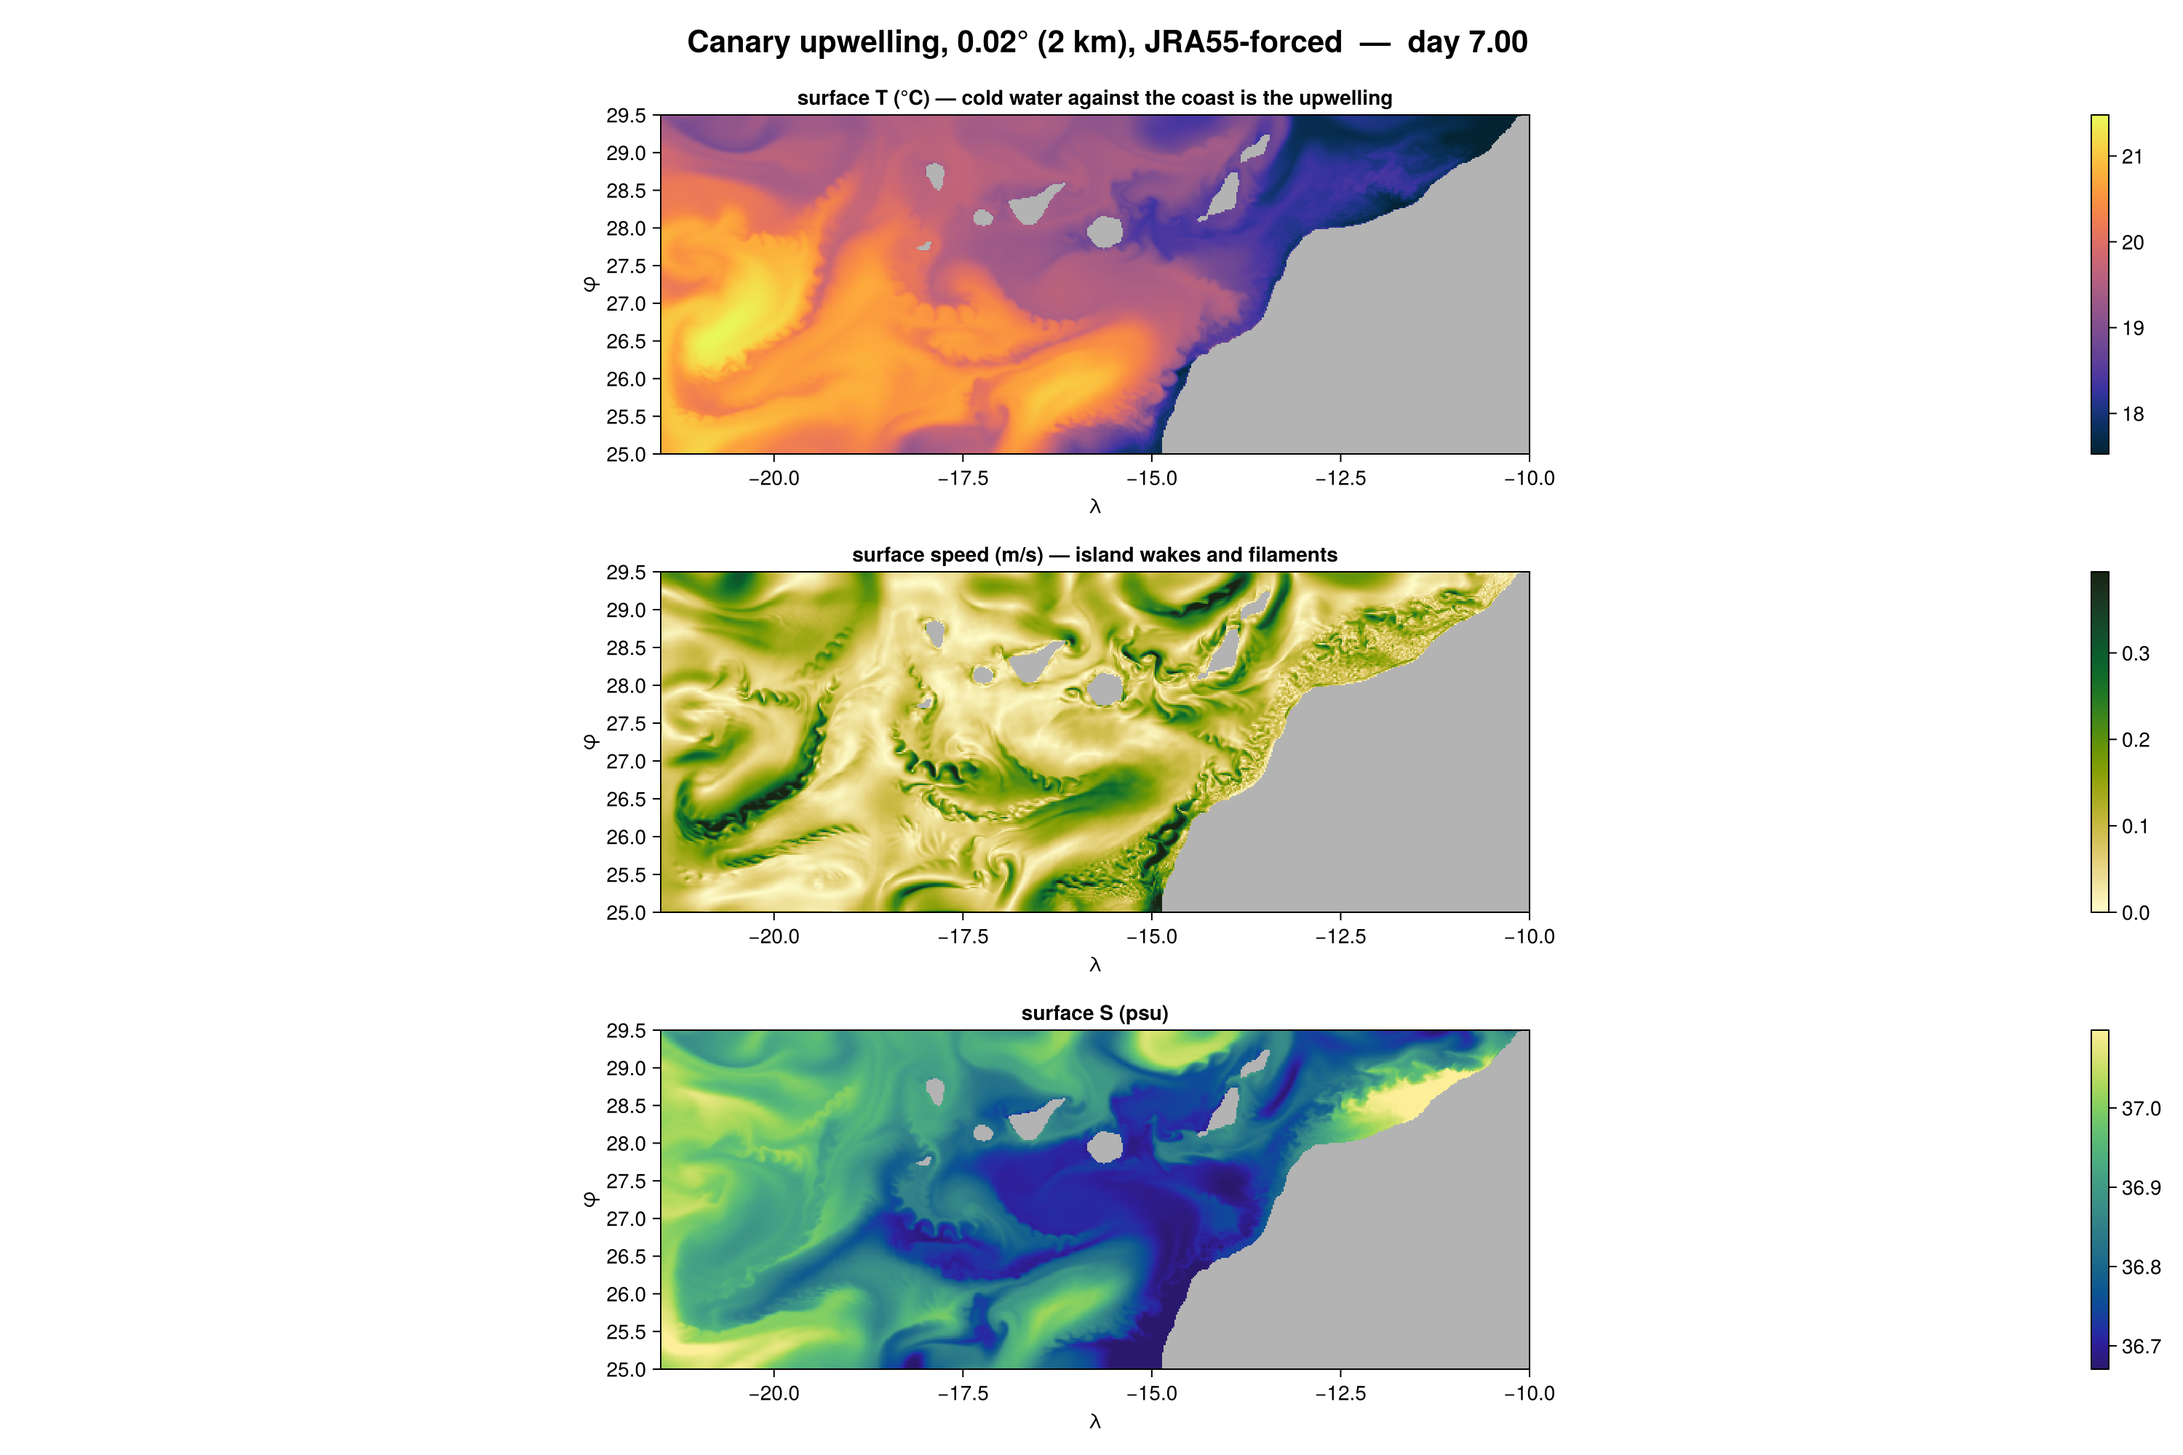
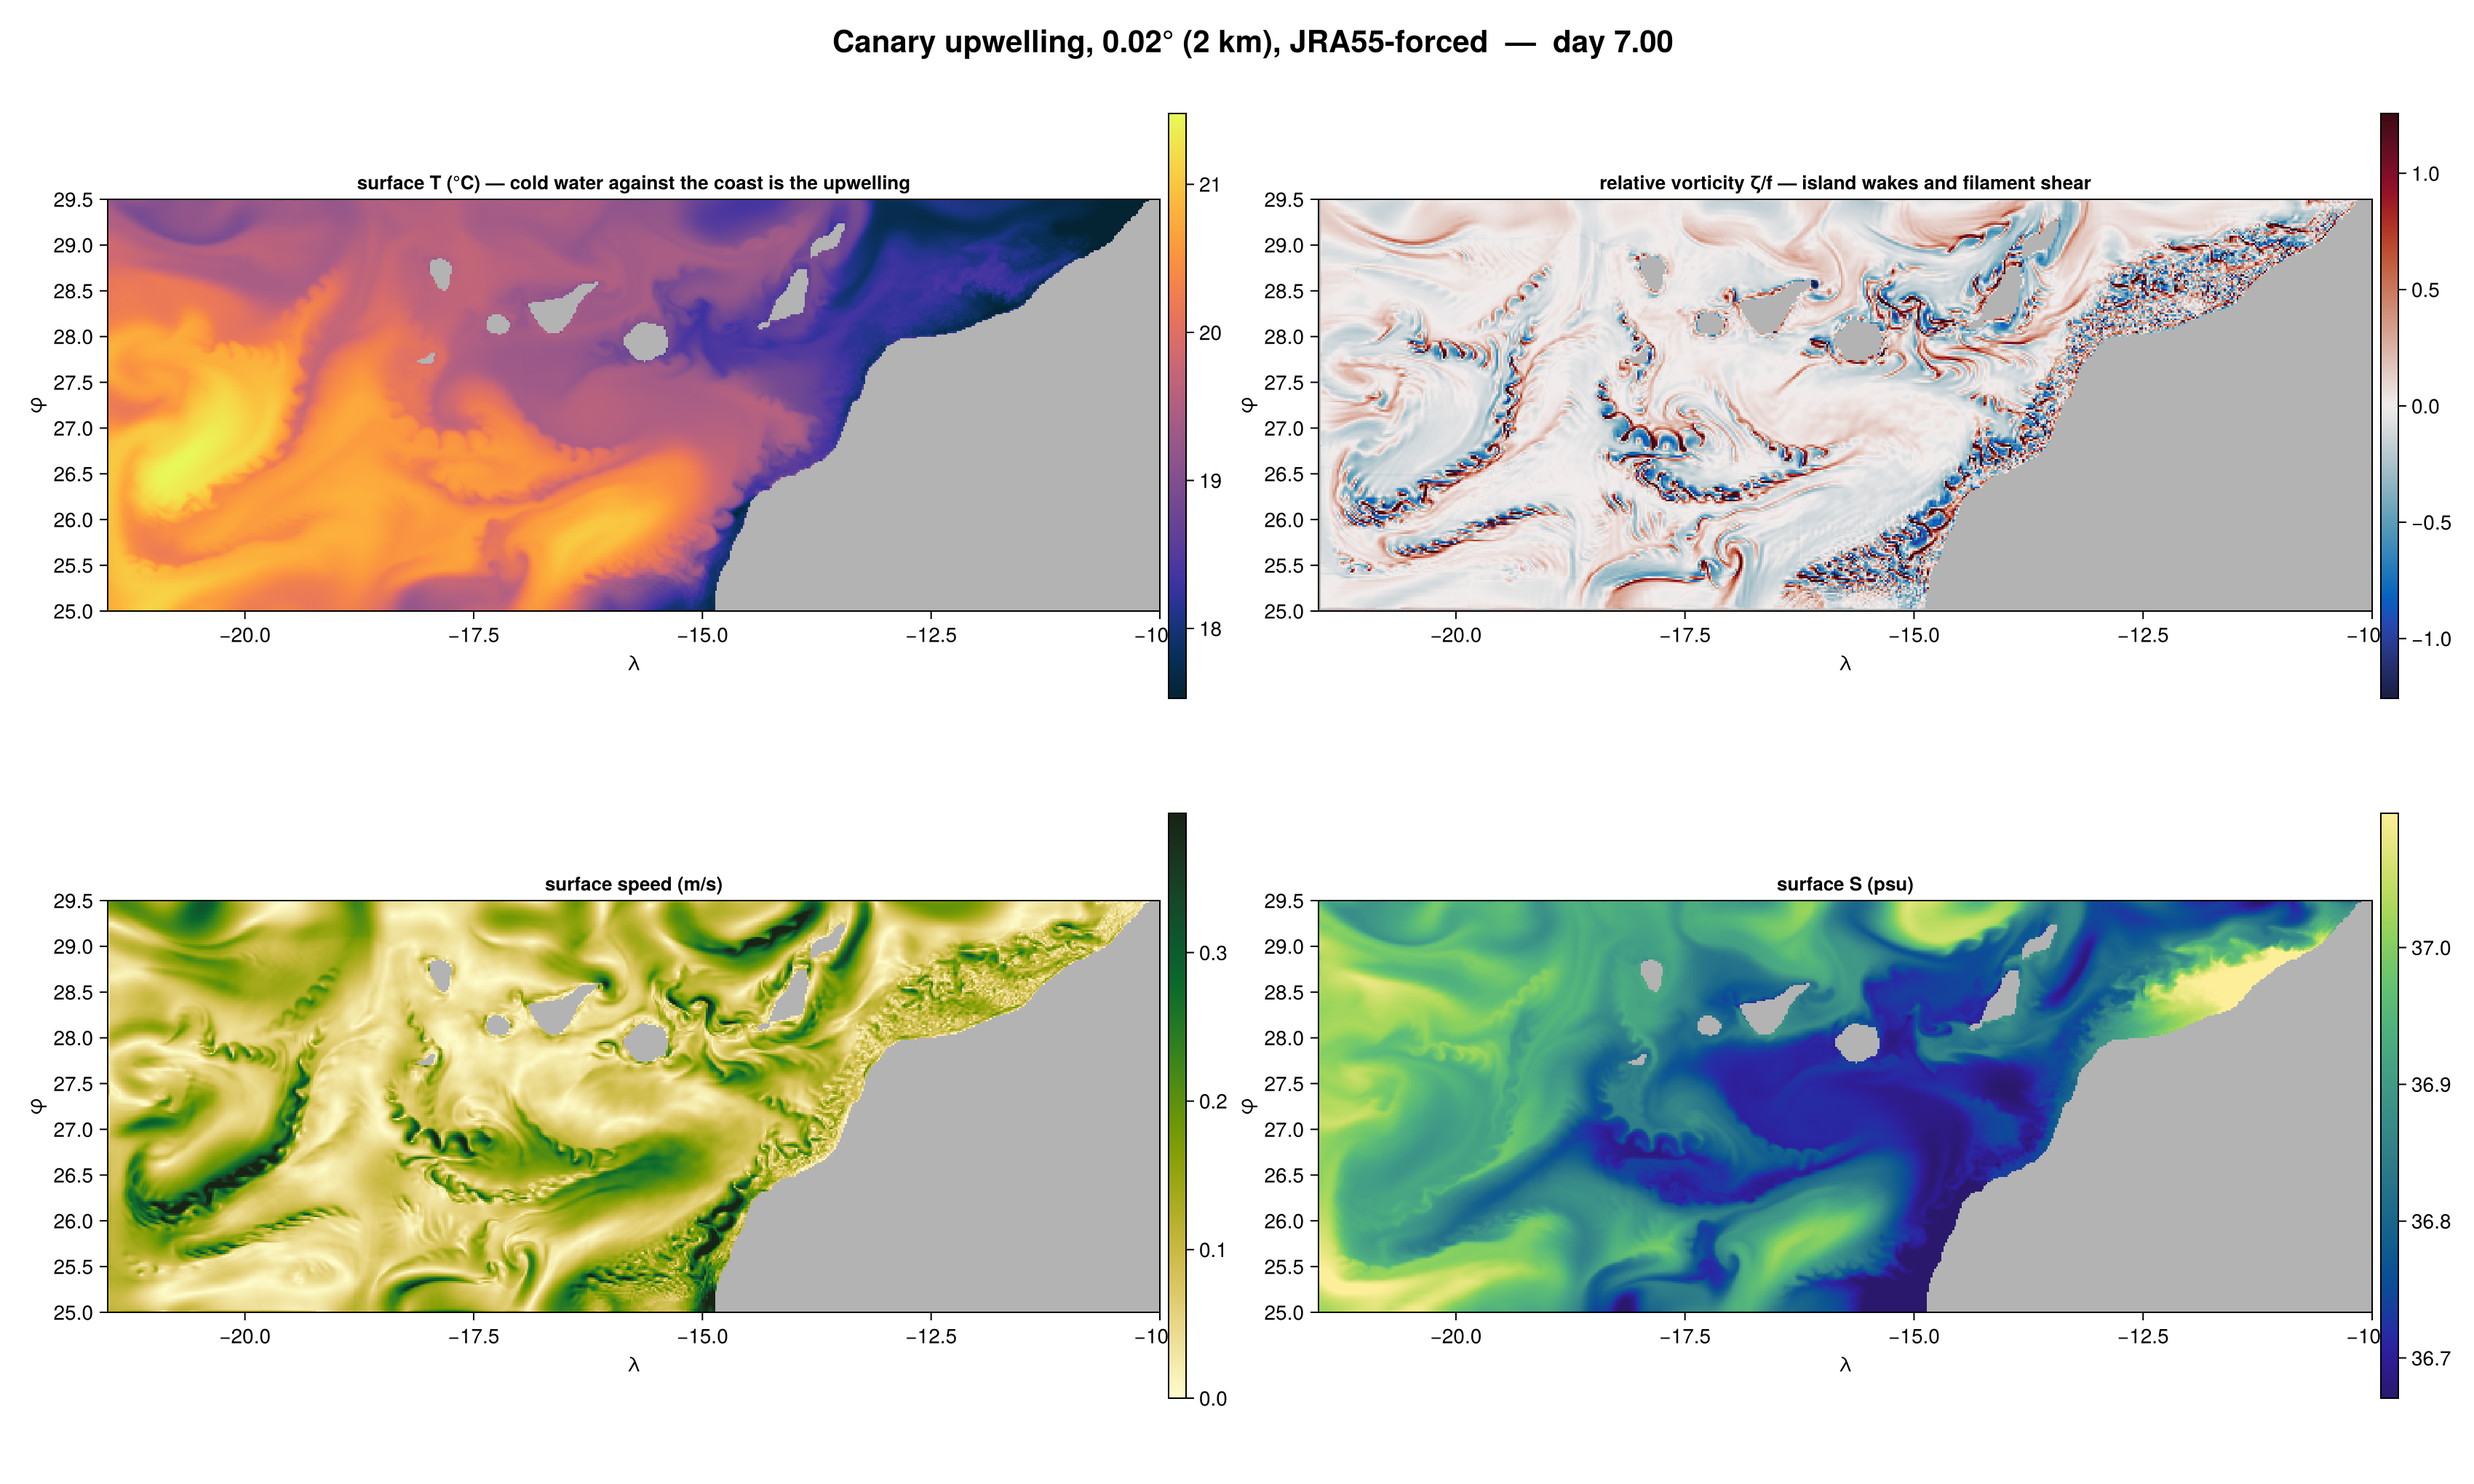
canary: July run, passive tracer release, animations
July 7-day run at 0.02 deg (CANARY_START=1993-07-01): 3030 iterations, 36.3 h wall.

The domain's headline signal is confirmed. Coast-following upwelling index, both runs
recomputed OFFLINE on the same definition so the comparison is like-for-like (January
ran before the index was fixed):

  January  -1.233 -> -1.246   change -0.013 C
  July     -1.997 -> -2.197   change -0.200 C

July's contrast is ~1.8x stronger in absolute terms and sharpens 15x more over the run.
In the weak season the model holds what GLORYS supplied; in the strong season it
actively deepens the gradient -- the 2 km child doing work the 9 km parent cannot.

Corrects two earlier readings. July's initial contrast was reported as WEAKER than
January's (-1.72 vs -2.26); that came from the broken fixed-longitude index sampling
only the northern coast, and on the corrected index July is stronger from the start --
the opposite conclusion. A mid-run estimate of "10x more sharpening" is 15x on the
coast-following index and 5x on the old one; direction held, number moved.

Canary Current, sigma-theta < 27.10: July north +4.94, south -2.91, west -1.70 Sv --
proper through-flow, in at the north and out at the south, with the south limb inside
the literature's summer estimate of -2.5 +/- 1.4 Sv. January (offline re-bin) has south
INFLOW +1.24, which does not match the winter estimate, though that error bar spans zero.

Boundary absorption holds in both seasons: January 99.2% of a -3.03e6 m3/s residual,
[…]

diff --git a/canary/README.md b/canary/README.md
@@ -1,7 +1,8 @@
 # Canary upwelling configuration (NW Africa)
 
-Third OBC test domain. **Status: validated — stable 7-day JRA55-forced run at 0.02° (2 km),
-38.8 h wall. January only; July not yet run.** Model: `canary_glorys_obc.jl`.
+Third OBC test domain. **Status: validated in both seasons — stable 7-day JRA55-forced
+runs at 0.02° (2 km), January (38.8 h) and July (36.3 h). Passive-tracer release implemented and
+verified but not yet used in a production run.** Model: `canary_glorys_obc.jl`.
 
 ## Why this domain
 
@@ -282,6 +283,100 @@ domain's headline signal, and the July run is the real test.
 - **The thermocline circulation was still drifting at day 7**, so 7 days does not settle this domain's
   transports any more than it settled the Red Sea's strait.
 
+## July vs January — the upwelling signal
+
+Same configuration, same resolution, 7 days each. `CANARY_START=1993-07-01`, 3030 iterations,
+**36.3 h wall**.
+
+### The headline: the child sharpens the gradient in the strong season
+
+Coast-following index, both recomputed **offline on the same definition** so the comparison is
+like-for-like (January ran before the index was fixed):
+
+| | day 0.25 | day 7 | change over the run | mean t ≥ 4 d |
+|---|---|---|---|---|
+| January | −1.233 | −1.246 | **−0.013 °C** | −1.227 |
+| **July** | −1.997 | −2.197 | **−0.200 °C** | −2.204 |
+
+July's contrast is **~1.8× stronger in absolute terms and sharpens 15× more** over the run. In the
+weak season the model essentially holds what GLORYS supplied; in the strong season it actively deepens
+the gradient. That is the 2 km child doing work the 9 km parent cannot — the question this domain was
+built to ask.
+
+> **Two earlier readings in this file were wrong and are corrected here.** July's initial contrast was
+> reported as *weaker* than January's (−1.72 vs −2.26); that came from the broken fixed-longitude index
+> which sampled only the northern coast. On the corrected index July is stronger from the start, the
+> opposite conclusion. And a mid-run estimate of "10× more sharpening" is 15× on the coast-following
+> index (5× on the old one) — the direction held, the number moved.
+
+### Canary Current
+
+| σθ < 27.10 | north | south | west |
+|---|---|---|---|
+| January (offline re-bin) | +5.77 | +1.24 | −2.94 |
+| **July** | **+4.94** | **−2.91** | −1.70 |
+
+July shows the proper through-flow — in at the north, out at the south — and the **−2.91 Sv south
+outflow sits inside the literature's summer estimate of −2.5 ± 1.4 Sv**. January's south limb is
+*inflow*, which does not match the winter estimate of −0.8 ± 1.1 Sv, though that error bar spans zero.
+
+### Boundary absorption holds in both seasons
+
+| | GLORYS residual | model net | absorbed |
+|---|---|---|---|
+| January | −3.03e6 m³/s | +2.5e4 | 99.2% |
+| **July** | **−3.56e6** | **+8.8e3** | **99.75%** |
+
+The `red_sea/` no-correction decision, measured at 1.44e5 m³/s, now holds across two seasons at
+~21–25× that magnitude.
+
+### Other seasonal differences
+
+| | January | July |
+|---|---|---|
+| evaporation | −0.92 m/yr | **−1.97 m/yr** |
+| mean S over the run | flat (35.3068→35.3069) | **rising (35.3148→35.3161)** |
+| worst IC-driven Δρ | 0.205 | **0.392** |
+| max \|ζ/f\| in the surface field | **1.26** | 0.79 |
+
+Summer evaporation concentrates salt, exactly as `red_sea/` showed. Note the vorticity extreme runs the
+*other* way: January reaches higher |ζ/f| offshore, while July's vorticity is weaker but concentrated
+in a narrow coastal strip along the upwelling front — visible in the animations.
+
+![July surface](canary_surface_day7_zstar_jraryf_jul.png)
+
+## Passive tracer release (implemented, not yet run in production)
+
+`CANARY_TRACER=1` adds a continuous point release for pathway and residence-time work — the kind an
+ocean alkalinity enhancement outfall would represent.
+
+**Two tracers, not one**, following Deleersnijder's age formulation:
+
+```
+∂c/∂t  + ∇·(uc)  = S     concentration; S is the release
+∂ac/∂t + ∇·(uac) = c     age concentration
+```
+
+so **mean age = ac/c**. A single "ideal age" tracer cannot do this for a point source: it measures time
+since surface contact, not time since release.
+
+| | |
+|---|---|
+| default site | Las Palmas, **−15.38°E, 28.16°N** — wet, 535 m, 47 of 49 neighbouring cells wet, the island's main port |
+| release volume | 1.92e9 m³ (5 km radius, top 20 m) |
+| source | normalised to **∫S dV = 1 unit/s**, so cumulative input equals elapsed seconds |
+| boundaries | **zero-value at all three open edges** — the default no-flux would trap tracer and make residence time meaningless |
+
+That normalisation makes the budget checkable by inspection rather than by trusting the advection
+scheme. Verified on CPU: **inventory 99.97% of released**, with export at ~1e-25 (nothing had reached a
+boundary yet), tracer confined to the release cell, and the age tracer accumulating correctly.
+
+**This needs a much longer run than 7 days.** Residence time in this region is weeks to months, which
+at ~39 s/iter is days of wall clock — a GPU run. The release forcing is a continuous-form pure function
+of `(x,y,z,t)` specifically so it runs unchanged on GPU, but **the diagnostics are not GPU-ready**: they
+index model fields directly, which GPU disallows. That refactor (CPU field copies plus a CPU grid for
+the metric operators) is the remaining blocker.
+
 ## Status and what is untested
 
 Smoke-tested end to end at 0.1°: all three boundaries carry transport, z\*, JRA55, the conservation
@@ -290,8 +385,11 @@ test. Not yet established:
 
 - ~~No validation run.~~ **Done** — 7 days at 0.02°, stable, 38.8 h.
 - ~~The GLORYS residual is untested against the no-correction decision.~~ **Done** — 99.2% absorbed.
-- **July is not run.** January is the weak-upwelling season and the ΔT result is null; the domain's
-  headline signal is untested.
+- ~~July is not run.~~ **Done** — the domain's headline signal is confirmed: 15× more sharpening than
+  January.
+- **The tracer release has not been run in production**, only verified. It needs a GPU run of weeks to
+  months to answer the residence-time question.
+- **The diagnostics are not GPU-ready** — scalar indexing into model fields. This blocks the long run.
 - **January is the weak-upwelling season.** The window matches `salish_sea/` and `red_sea/`, but
   Canary upwelling peaks in boreal summer at these latitudes. `CANARY_START=1993-07-01` gives the
   strong case, and the domain's own signal will be clearer there.

diff --git a/CLAUDE.md b/CLAUDE.md
@@ -7,7 +7,8 @@ parent product.
 - `red_sea/` — Red Sea + Gulf of Aden, GLORYS-forced, optional JRA55 atmosphere. Validated both ways:
   stable 7-day runs at 5.2 km (17.5 h unforced, 22.9 h forced). Strait transports not yet converged.
 - `canary/` — Canary upwelling, NW Africa. Three open boundaries, wind-driven interior, islands
-  inside the domain. Validated: stable 7-day JRA55-forced run at 2 km (38.8 h), January. July untested.
+  inside the domain. Validated in both seasons at 2 km (January 38.8 h, July 36.3 h). Passive-tracer
+  release implemented and verified; needs a GPU run, and the diagnostics are not yet GPU-ready.
 
 ## Working agreements
 
